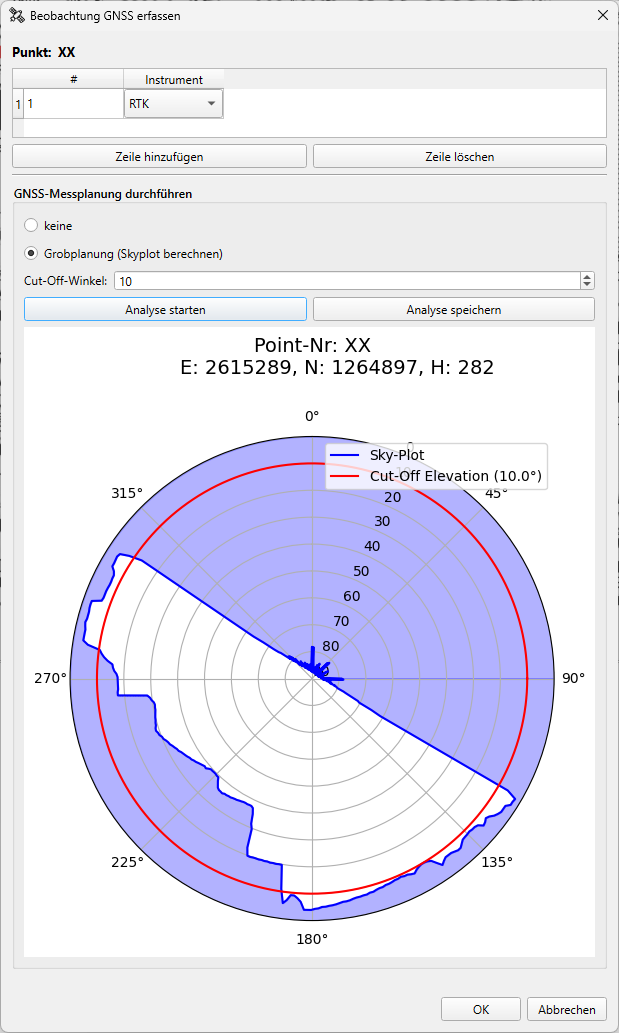
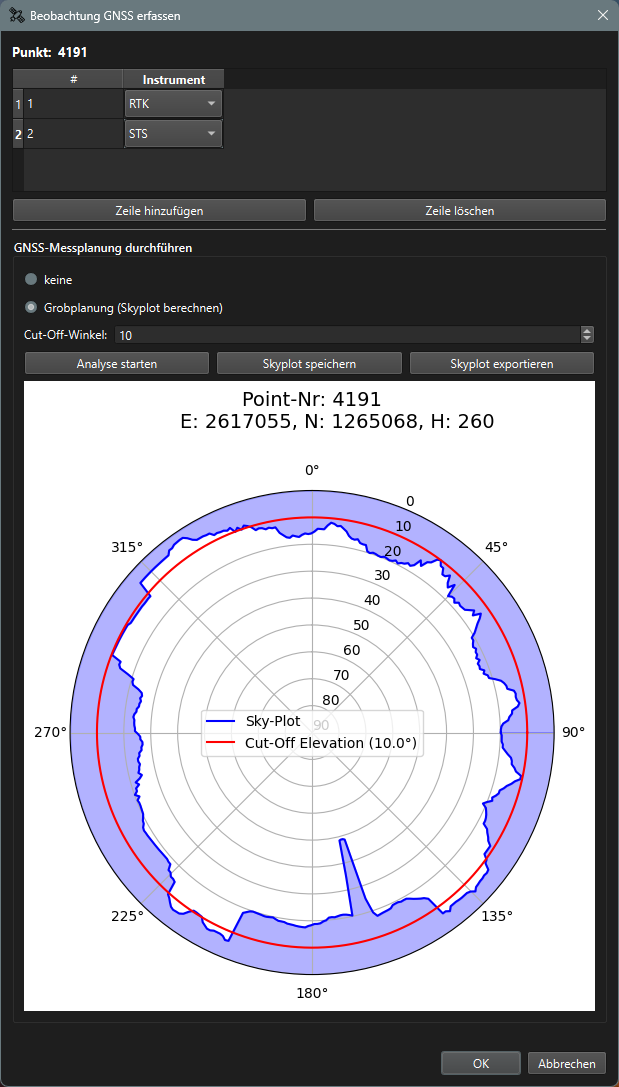
v0.2.1

diff --git a/docs/network.md b/docs/network.md
@@ -102,7 +102,7 @@ Ein Klick auf den Knopf ```GNSS-Beobachtungen erfassen``` aktiviert das Digitali
 
 *Konfiguration der GNSS-Beobachtungen:* Bei der Erfassung von GNSS-Beobachtungen (siehe Abb. 2) können Sie sämtliche Sessionen direkt in einer Maske erfassen. Klicken Sie hierzu auf den Button ```Zeile hinzufügen``` und wählen Sie aus dem Dropdown in der rechten Spalte das Instrument/die Session aus. Fehlerhaft erfasste Sessionen können über den Button ```Zeile löschen``` entfernt werden. Um den Dialog zu bestätigen müssen Sie mindestens eine Session definiert haben.
 
-*GNSS-Messplanung durchführen:* Seit Version v0.2.0 wird die Grobplanung (Erstellung von Skyplots) für GNSS-Messungen unterstützt. Voraussetzung dafür ist, dass ein Oberflächenmodell als Raster geladen wurde. Wählen Sie für die Erstellung des Skyplots die Option *Grobplanung (Skyplot berechnen)* aus, stellen Sie den gewünschten Cut-Off-Winkel (in Grad) ein und klicken Sie auf Analyse starten. Es öffnet sich ein Fenster mit einem Fortschrittsbalken. Je nach Ausdehnung des Oberflächenrasters und Rechenkapazität des Computers kann die Bildgenerierung einige Sekunden bis Minuten dauern. Die Analyse kann zur Weiterverwendung in Berichten als *PNG gespeichert werden. Klicken Sie dazu auf den Button *Analyse speichern* und wählen Sie den Speicherort aus. Vergessen Sie am Ende nicht, die Erfassung der Messung mit *OK* zu bestätigen.
+*GNSS-Messplanung durchführen:* Seit Version v0.2.0 wird die Grobplanung (Erstellung von Skyplots) für GNSS-Messungen unterstützt. Voraussetzung dafür ist, dass ein Oberflächenmodell als Raster geladen wurde. Wählen Sie für die Erstellung des Skyplots die Option *Grobplanung (Skyplot berechnen)* aus, stellen Sie den gewünschten Cut-Off-Winkel (in Grad) ein und klicken Sie auf Analyse starten. Es öffnet sich ein Fenster mit einem Fortschrittsbalken. Je nach Ausdehnung des Oberflächenrasters und Rechenkapazität des Computers kann die Bildgenerierung einige Sekunden bis Minuten dauern. Die Analyse kann zur Weiterverwendung in Berichten als *PNG gespeichert werden. Klicken Sie dazu auf den Button *Skyplot speichern* und wählen Sie den Speicherort aus. Vergessen Sie am Ende nicht, die Erfassung der Messung mit *OK* zu bestätigen. Seit Version v0.2.1 kann die Analyse ebenfalls als ASCII-Datei gespeichert werden. Dies erlaubt den Import der Hindernisse in Leica Infinity. Klicken sie dafür auf den Button *Skyplot exportieren*.
 
 <img src="../imgs/network/GNSS-Obs.png" width="500" /><br/>
 <small>_Abbildung 2: Erfassen einer GNSS-Beobachtung._</small>

diff --git a/docs/index.md b/docs/index.md
@@ -19,6 +19,12 @@ Das vorliegende Dokument erläutert das QGIS-Plugin _Präanalysetool_.
 
 Sämtliche Veränderungen werden unter den entsprechenden Versionen aufgelistet. Die oberste Version ist die neueste.
 
+### v0.2.1-beta
+| Änderung | Bezeichnung | Bemerkung |
+|---|---|---|
+| **NEU** | Export Horizontprofil Infinity | Das Horizontprofil geplanter GNSS Messungen kann nun als ASCII-Datei, für den Import in Leica Infinity, exportiert werden. |
+
+
 ### v0.2.0-beta
 | Änderung | Bezeichnung | Bemerkung |
 |---|---|---|
